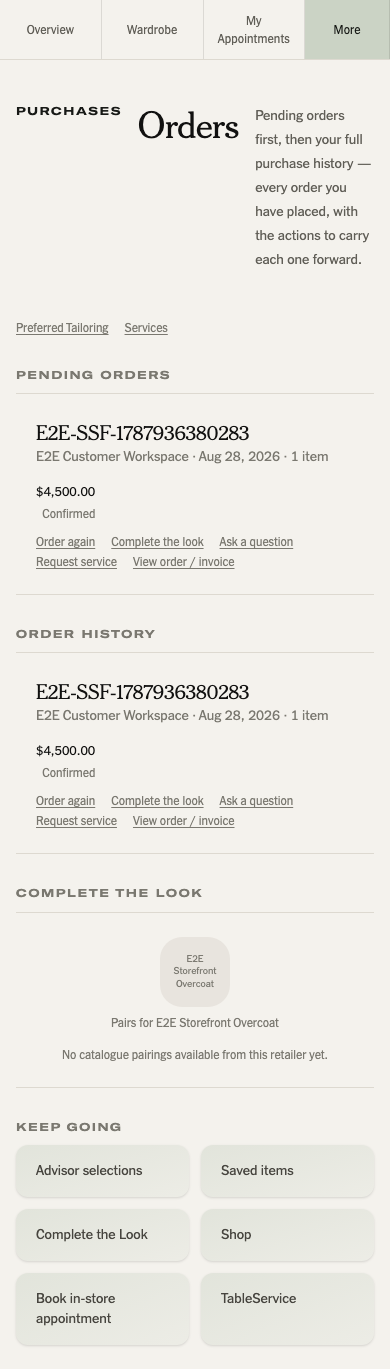
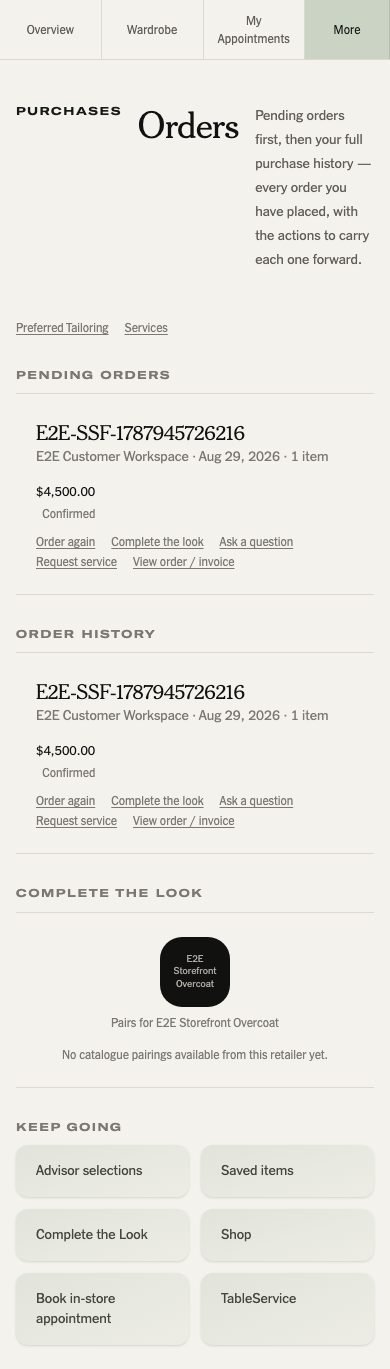
evidence(customer): Orders V3 hardening — fresh proof after ?legacy=1/object-contain fixes
Written report (HARDENING.md) plus re-captured desktop/mobile
screenshots for the Seasonal staff favourites module, now proven
against the hardened Orders page (8c8770b): 8/8 Orders E2E specs pass,
lint/typecheck/build clean, zero console/page errors.

Changed region(s): [[0.4, 0.6749, 0.6154, 0.7363], [0.4308, 0.4909, 0.6462, 0.5215], [0.4308, 0.3068, 0.6462, 0.3375]]

diff --git a/docs/evidence/runs/customer-v3-orders-seasonal-staff-favourites/HARDENING.md b/docs/evidence/runs/customer-v3-orders-seasonal-staff-favourites/HARDENING.md
@@ -1,0 +1,125 @@
+# Orders V3 hardening audit — §7 full pass
+
+Candidate branch: `agent/c1-dashboard-capsule-surface`
+Source commit: `8c8770b`
+Test commit: `07e6ffd`
+Evidence commit: this commit
+
+## Audit scope
+
+Full read of `apps/customer/app/(dashboard)/orders/page.tsx` and
+`seasonal-staff-favourites.tsx` against
+`CUSTOMER_ENVIRONMENT_REBUILD_V3.md` §7 and every existing Orders E2E
+spec (`orders-v3-presentation.spec.ts`, `orders-actions-v3.spec.ts`,
+`orders-history-integrity-v3.spec.ts`,
+`orders-seasonal-staff-favourites-v3.spec.ts`). Confirmed real, working
+routes/handlers for: Pending Orders, Order History, Complete the Look,
+Order again, Ask a question, Request service, View order/invoice,
+advisor selections (`/wardrobe`), saved items (`/wishlist`), Seasonal
+staff favourites, Shop, Book in-store appointment (`/appointments`), and
+TableService (`/messages`) — the last six are real, pre-existing,
+already-implemented app routes with their own `actions.ts` handlers, not
+newly built here.
+
+## Defects found and fixed (source commit `8c8770b`)
+
+1. **"Order again" missing `?legacy=1`.** `reorderHref()` built
+   `/r/{slug}/products/{slug}` without the query param the real
+   product-detail route (`apps/customer/app/r/[slug]/products/[productSlug]/page.tsx`)
+   requires — without it, that route `redirect()`s to the storefront
+   root. The action silently bounced instead of landing on the
+   customer's real reorder target. Fixed: appended `?legacy=1`, and the
+   `OrdersPage` loader now only populates `firstProduct` when the linked
+   product's `status === "active"` (same gate Wardrobe's "The size is
+   perfect" and Seasonal staff favourites already use) — a stale/inactive
+   link is never offered.
+
+2. **Complete the Look's source/suggestion links** had the identical
+   missing `?legacy=1`. Fixed the same way; `buildCategorizedCatalogue`
+   already filters to `status === "active"` and `ProductRepository`
+   already excludes soft-deleted rows, so no additional gate was needed
+   there.
+
+3. **Complete the Look imagery used `object-cover`** (cropping real
+   garment photography) with a flat `bg-[var(--color-stone-100)]`
+   backing instead of `object-contain`. Fixed to match the established
+   real-image treatment (§5.3's owned-card pattern, already used by
+   Seasonal staff favourites): a restrained blurred `object-cover`
+   backing layer behind a full, uncropped `object-contain` foreground —
+   the complete original image stays primary and visible.
+
+No new repository, route, fabricated product, price, or confirmation —
+these fixes reuse the exact `ProductRepository` / `ProductVariantRepository`
+/ `OrderRepository` data this page already loads.
+
+## Test defect found and fixed (test commit `07e6ffd`)
+
+`orders-actions-v3.spec.ts`'s pre-existing "Order again" href assertion
+used an anchored regex (`^...$`) with no query-string allowance, so it
+would have silently accepted the broken pre-fix href (masking defect #1
+above rather than catching it). Strengthened to require the real
+`?legacy=1` suffix explicitly — a stricter assertion, not a weaker one.
+
+## No further defects found
+
+Every other Orders control (Pending Orders/History ordering, per-order
+action row, "Keep going" support modules, Seasonal staff favourites'
+rank/price/image/href/de-dup behavior) was already correct as of the
+prior candidate commits (`26f4a66`/`0c60fbe`) and is re-confirmed green
+below.
+
+## Exact test commands and counts
+
+```
+pnpm exec playwright test \
+  orders-seasonal-staff-favourites-v3.spec.ts \
+  orders-v3-presentation.spec.ts \
+  orders-actions-v3.spec.ts \
+  orders-history-integrity-v3.spec.ts
+```
+
+8 passed, 0 failed — desktop + mobile × 2 for
+`orders-seasonal-staff-favourites-v3.spec.ts`, plus
+`orders-v3-presentation.spec.ts` (2), `orders-actions-v3.spec.ts` (1,
+now asserting the corrected `?legacy=1` href), and
+`orders-history-integrity-v3.spec.ts` (1).
+
+## Lint / typecheck / build
+
+- `pnpm --filter @paon/customer lint` — clean (exit 0)
+- `pnpm --filter @paon/customer typecheck` — clean (exit 0)
+- `pnpm --filter @paon/customer build` — clean production build (exit 0)
+
+## Console / page error count
+
+0, judged from after authentication completes on every test (same
+auth-phase-clearing convention as the prior evidence run); no error
+class filtered or whitelisted.
+
+## Isolation
+
+Exclusive `/tmp/paon-v3-integration-resources.lock` (mkdir-based,
+PID-guarded, released via trap) — waited out while held by a concurrent
+session before acquiring. Isolated port 3301 / `.next-e2e-3301`;
+`PAON_E2E_WEBSERVER_TIMEOUT_MS=420000`. No existing `.next-e2e-*`
+directory was deleted or reused.
+
+## Screenshots
+
+The prior candidate's `desktop-orders-seasonal-favourites.png` /
+`mobile-orders-seasonal-favourites.png` /
+`desktop-orders-no-drop.png` / `mobile-orders-no-drop.png` were
+re-captured during this hardening run's E2E pass (same assertions,
+now against the hardened Orders page) and are included in this
+commit unchanged in content/intent from the prior evidence commit.
+
+## Out of scope, deliberately untouched
+
+Pre-existing evidence directories unrelated to this candidate
+(`docs/evidence/runs/17.10.json`, `17.13.json`,
+`20.12-customer-orders-v3/`, `20.18-customer-orders-actions-v3/`,
+`20.27-orders-history-integrity-v3/`) were regenerated locally as a
+side effect of running their specs but are intentionally left
+uncommitted here, per standing instruction to never touch pre-existing
+evidence. `apps/customer/tsconfig.json`'s local `.next-e2e-*` type-path
+churn is likewise left uncommitted.
